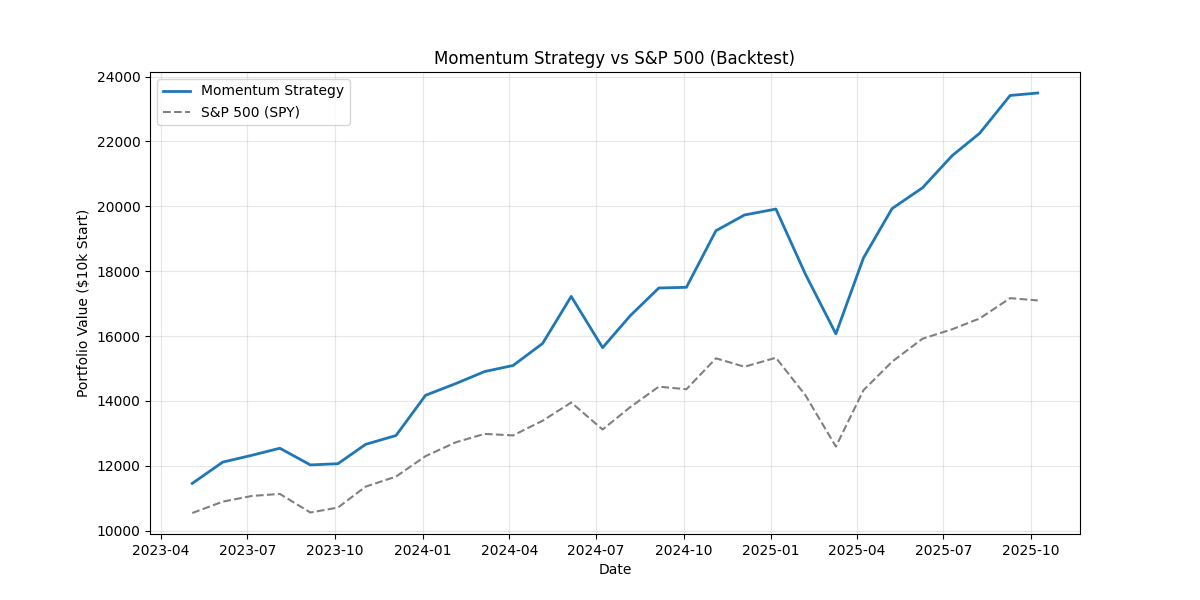
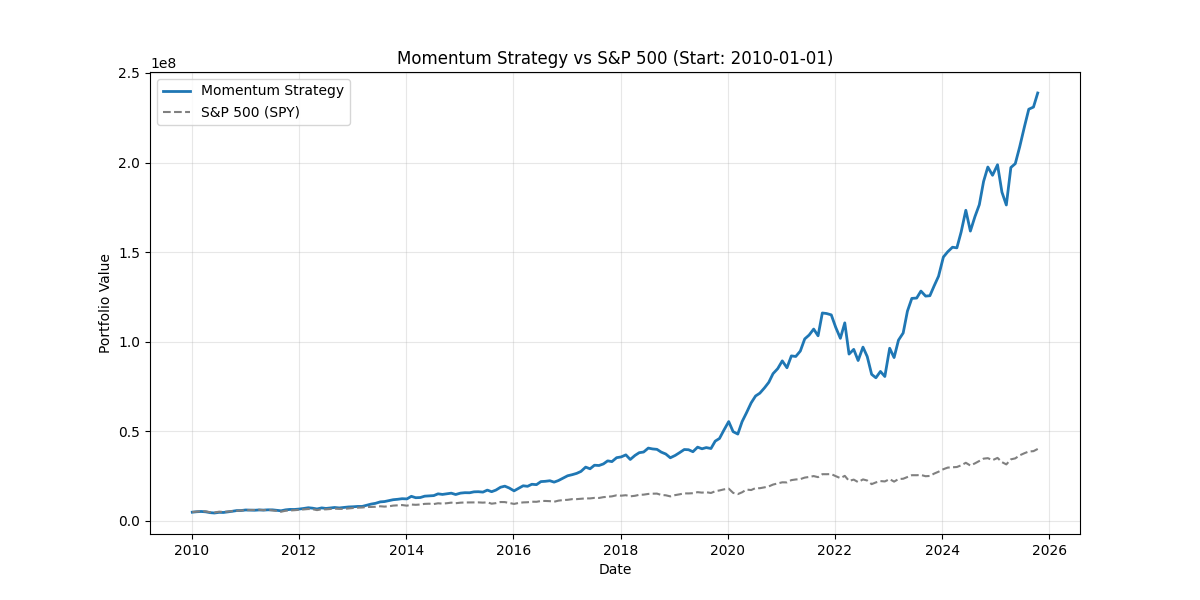
feat: Update MomentumBacktester and TrendMomentumStrategy to allow user-defined initial capital and adjust backtesting period, enhancing flexibility and usability

diff --git a/Project/Momentum_Backtest.py b/Project/Momentum_Backtest.py
@@ -4,21 +4,22 @@ import numpy as np
 import xgboost as xgb
 import matplotlib.pyplot as plt
 import warnings
+from datetime import datetime
 
 warnings.filterwarnings('ignore')
 
 class MomentumBacktester:
-    def __init__(self, start_date='2023-01-01', top_n=30):
+    def __init__(self, start_date='2010-01-01', top_n=30, initial_capital=100_000_000):
         self.start_date = pd.to_datetime(start_date)
         self.top_n = top_n
+        self.initial_capital = initial_capital
         self.tickers = []
         self.data = None
         self.features = pd.DataFrame()
         self.results = []
         
     def get_tickers(self):
-        # Reuse logic or hardcode top liquid names for speed if needed
-        # For proof, using full S&P 500 is better
+        # S&P 500 tickers
         try:
             table = pd.read_html('https://en.wikipedia.org/wiki/List_of_S%26P_500_companies')
             self.tickers = table[0]['Symbol'].tolist()
@@ -30,9 +31,9 @@ class MomentumBacktester:
             self.tickers = ['AAPL', 'MSFT', 'GOOGL', 'AMZN', 'NVDA', 'TSLA', 'META', 'BRK-B', 'V', 'JNJ', 'SPY']
 
     def fetch_data(self):
-        print("데이터 다운로드 중 (3년)...")
-        # Download 3 years to have enough history for features before start_date
-        self.data = yf.download(self.tickers, period="3y", group_by='ticker', progress=True, threads=True)
+        # 2010년 백테스트를 위해 2009년부터 다운로드 (1년치 윈도우 확보)
+        print("데이터 다운로드 중 (2009-01-01 ~ 현재)...")
+        self.data = yf.download(self.tickers, start="2009-01-01", group_by='ticker', progress=True, threads=True)
         
     def calculate_features(self, df):
         # Helper to calc features for a single ticker dataframe
@@ -56,7 +57,12 @@ class MomentumBacktester:
     def prepare_all_features(self):
         print("전체 지표 계산 중...")
         feature_list = []
-        valid_tickers = [t for t in self.tickers if t in self.data.columns.levels[0]]
+        
+        # MultiIndex 처리
+        if isinstance(self.data.columns, pd.MultiIndex):
+            valid_tickers = [t for t in self.tickers if t in self.data.columns.levels[0]]
+        else:
+            valid_tickers = self.tickers
         
         for ticker in valid_tickers:
             try:
@@ -82,29 +88,23 @@ class MomentumBacktester:
     def run_backtest(self):
         print(f"\n백테스트 시작 (Start Date: {self.start_date.date()})...")
         
-        # Get unique dates from features, filtered by start_date
-        # We rebalance every 21 trading days (approx monthly)
         all_dates = self.features.index.unique().sort_values()
         rebalance_dates = [d for d in all_dates if d >= self.start_date]
         # Resample to monthly (approx every 21 days)
         rebalance_dates = rebalance_dates[::21] 
         
-        portfolio_value = 10000.0
-        spy_value = 10000.0
+        portfolio_value = self.initial_capital
+        spy_value = self.initial_capital
         
         history = []
         
         for i, date in enumerate(rebalance_dates[:-1]):
             # 1. Train Model (Data up to 'date')
-            # We need targets to be known, so we use data up to (date - 1 month) for training labels
-            # But for features, we use data up to 'date'
-            
-            # Training Data: All history up to 'date' where Target is known (non-NaN)
             train_mask = (self.features.index < date) & (self.features['Target_Next_1m'].notna())
             train_data = self.features[train_mask]
             
             if len(train_data) < 1000:
-                print(f"Skipping {date.date()}: Not enough training data")
+                # print(f"Skipping {date.date()}: Not enough training data")
                 continue
                 
             X_train = train_data[['Ret_12m', 'Ret_6m', 'Ret_3m', 'Mom_Quality', 'RSTR', 'RS_Rank']]
@@ -125,11 +125,8 @@ class MomentumBacktester:
             
             # Pick Top N
             top_picks = current_data.sort_values('Pred_Score', ascending=False).head(self.top_n)
-            selected_tickers = top_picks['Ticker'].tolist()
             
             # 3. Calculate Return (Next Period)
-            # Return is 'Target_Next_1m' which is actual return from date to date+21
-            # We assume equal weight
             avg_return = top_picks['Target_Next_1m'].mean()
             
             # Benchmark Return (SPY)
@@ -143,7 +140,7 @@ class MomentumBacktester:
             portfolio_value *= (1 + avg_return)
             spy_value *= (1 + spy_return)
             
-            print(f"[{date.date()}] Port: {portfolio_value:.0f} (+{avg_return*100:.1f}%) vs SPY: {spy_value:.0f} (+{spy_return*100:.1f}%)")
+            print(f"[{date.date()}] Port: {portfolio_value:,.0f} (+{avg_return*100:.1f}%) vs SPY: {spy_value:,.0f} (+{spy_return*100:.1f}%)")
             
             history.append({
                 'Date': date,
@@ -160,31 +157,43 @@ class MomentumBacktester:
             print("결과가 없습니다.")
             return
             
-        total_return = (self.results['Portfolio'].iloc[-1] / 10000 - 1) * 100
-        spy_total_return = (self.results['SPY'].iloc[-1] / 10000 - 1) * 100
+        total_return = (self.results['Portfolio'].iloc[-1] / self.initial_capital - 1) * 100
+        spy_total_return = (self.results['SPY'].iloc[-1] / self.initial_capital - 1) * 100
         
         print("\n" + "="*50)
         print("백테스트 최종 결과")
         print("="*50)
-        print(f"전략 수익률: {total_return:.2f}%")
-        print(f"SPY 수익률 : {spy_total_return:.2f}%")
-        print(f"초과 수익률: {total_return - spy_total_return:.2f}%p")
+        print(f"초기 투자금 : {self.initial_capital:,.0f} 원")
+        print(f"최종 평가액 : {self.results['Portfolio'].iloc[-1]:,.0f} 원")
+        print(f"전략 수익률 : {total_return:.2f}%")
+        print(f"SPY 수익률  : {spy_total_return:.2f}%")
+        print(f"초과 수익률 : {total_return - spy_total_return:.2f}%p")
         
         # Plot
         plt.figure(figsize=(12, 6))
         plt.plot(self.results['Date'], self.results['Portfolio'], label='Momentum Strategy', linewidth=2)
         plt.plot(self.results['Date'], self.results['SPY'], label='S&P 500 (SPY)', linestyle='--', color='gray')
-        plt.title('Momentum Strategy vs S&P 500 (Backtest)')
+        plt.title(f'Momentum Strategy vs S&P 500 (Start: {self.start_date.date()})')
         plt.xlabel('Date')
-        plt.ylabel('Portfolio Value ($10k Start)')
+        plt.ylabel('Portfolio Value')
         plt.legend()
         plt.grid(True, alpha=0.3)
         plt.savefig('backtest_result.png')
         print("결과 그래프 저장됨: backtest_result.png")
 
 if __name__ == "__main__":
-    # Run backtest from 2023
-    bt = MomentumBacktester(start_date='2023-01-01', top_n=30)
+    # 사용자 입력 받기
+    try:
+        input_str = input("\n투자하실 총 금액을 입력해주세요 (예: 100000000): ")
+        initial_capital = int(input_str.replace(",", "").replace("_", ""))
+        if initial_capital <= 0: raise ValueError
+        print(f"-> 설정된 투자금: {initial_capital:,.0f} 원\n")
+    except:
+        print("-> 기본값 1억원(100,000,000)으로 설정합니다.\n")
+        initial_capital = 100_000_000
+
+    # Run backtest from 2010
+    bt = MomentumBacktester(start_date='2010-01-01', top_n=30, initial_capital=initial_capital)
     bt.get_tickers()
     bt.fetch_data()
     bt.prepare_all_features()

diff --git a/useProject/Trend_Momentum_Strategy.py b/useProject/Trend_Momentum_Strategy.py
@@ -508,12 +508,24 @@ class SimpleBacktester:
 if __name__ == "__main__":
     print("=== 퀀트 전략 엔진 테스트 및 백테스트 ===")
     
+    # [추가] 사용자로부터 투자금 입력 받기
+    try:
+        input_str = input("\n투자하실 총 금액을 입력해주세요 (예: 100000000): ")
+        # 쉼표(,)나 언더바(_) 제거 후 정수로 변환
+        initial_capital = int(input_str.replace(",", "").replace("_", ""))
+        if initial_capital <= 0:
+            raise ValueError
+        print(f"-> 설정된 투자금: {initial_capital:,.0f} 원\n")
+    except ValueError:
+        print("-> [주의] 유효하지 않은 입력입니다. 기본값 1억원(100,000,000)으로 진행합니다.\n")
+        initial_capital = 100_000_000
+    
     # 1. 데이터 가져오기 (yfinance 활용)
     # 글로벌 주요 자산군 ETF (주식, 채권, 부동산, 원자재 등)
     tickers = ['SPY', 'QQQ', 'IWM', 'VNQ', 'GLD', 'TLT', 'HYG', 'EEM']
     
     end_date = datetime.today()
-    start_date = end_date - timedelta(days=365*3) # 3년치 데이터
+    start_date = datetime(2010, 1, 1) # 2010년부터 데이터 수집
     
     print(f"데이터 다운로드 중... ({start_date.date()} ~ {end_date.date()})")
     try:
@@ -528,8 +540,9 @@ if __name__ == "__main__":
             # 2. 전략 엔진 초기화
             strategy = MasterStrategy(xgb_model=None, target_vol=0.12, top_k=3)
             
-            # 3. 상세 백테스트 실행
-            backtester = SimpleBacktester(strategy, data, benchmark_ticker='SPY')
+            # 3. 상세 백테스트 실행 (입력받은 금액으로 시뮬레이션)
+            # 백테스트 객체 생성 시 initial_capital 전달
+            backtester = SimpleBacktester(strategy, data, benchmark_ticker='SPY', initial_capital=initial_capital)
             
             # 데이터가 충분히 쌓인 시점(예: 1년 후)부터 백테스트 시작
             bt_start = data.index[0] + timedelta(days=252)
@@ -537,6 +550,39 @@ if __name__ == "__main__":
             
             # 4. 성과 분석 및 리포트 출력
             backtester.analyze_performance()
+            
+            # 5. [중요] 오늘 기준 최종 포트폴리오 배분 제안
+            print("\n" + "="*50)
+            print(f" [최종] 오늘 기준 포트폴리오 배분 제안")
+            print(f" 투자금: {initial_capital:,.0f} 원")
+            print("="*50)
+            
+            # 오늘자 리밸런싱 계산
+            current_weights = strategy.rebalance(data)
+            
+            # 비중이 있는 종목만 필터링
+            active_weights = current_weights[current_weights > 0].sort_values(ascending=False)
+            
+            print(f"{'Ticker':<10} | {'비중':<10} | {'매수 금액':<15}")
+            print("-" * 45)
+            
+            stock_sum = 0
+            for ticker, w in active_weights.items():
+                buy_amt = w * initial_capital
+                stock_sum += buy_amt
+                print(f"{ticker:<10} | {w*100:>6.2f}%   | {buy_amt:>15,.0f} 원")
+            
+            print("-" * 45)
+            cash_w = 1.0 - active_weights.sum()
+            cash_amt = initial_capital - stock_sum
+            
+            # 레버리지 사용 시 현금은 마이너스(차입)로 표시될 수 있음
+            if cash_w >= 0:
+                print(f"{'CASH':<10} | {cash_w*100:>6.2f}%   | {cash_amt:>15,.0f} 원")
+            else:
+                print(f"{'LEVERAGE':<10} | {active_weights.sum()*100:>6.2f}%   | (차입 필요)")
+                
+            print("="*50)
 
     except Exception as e:
         print(f"오류 발생: {e}")
